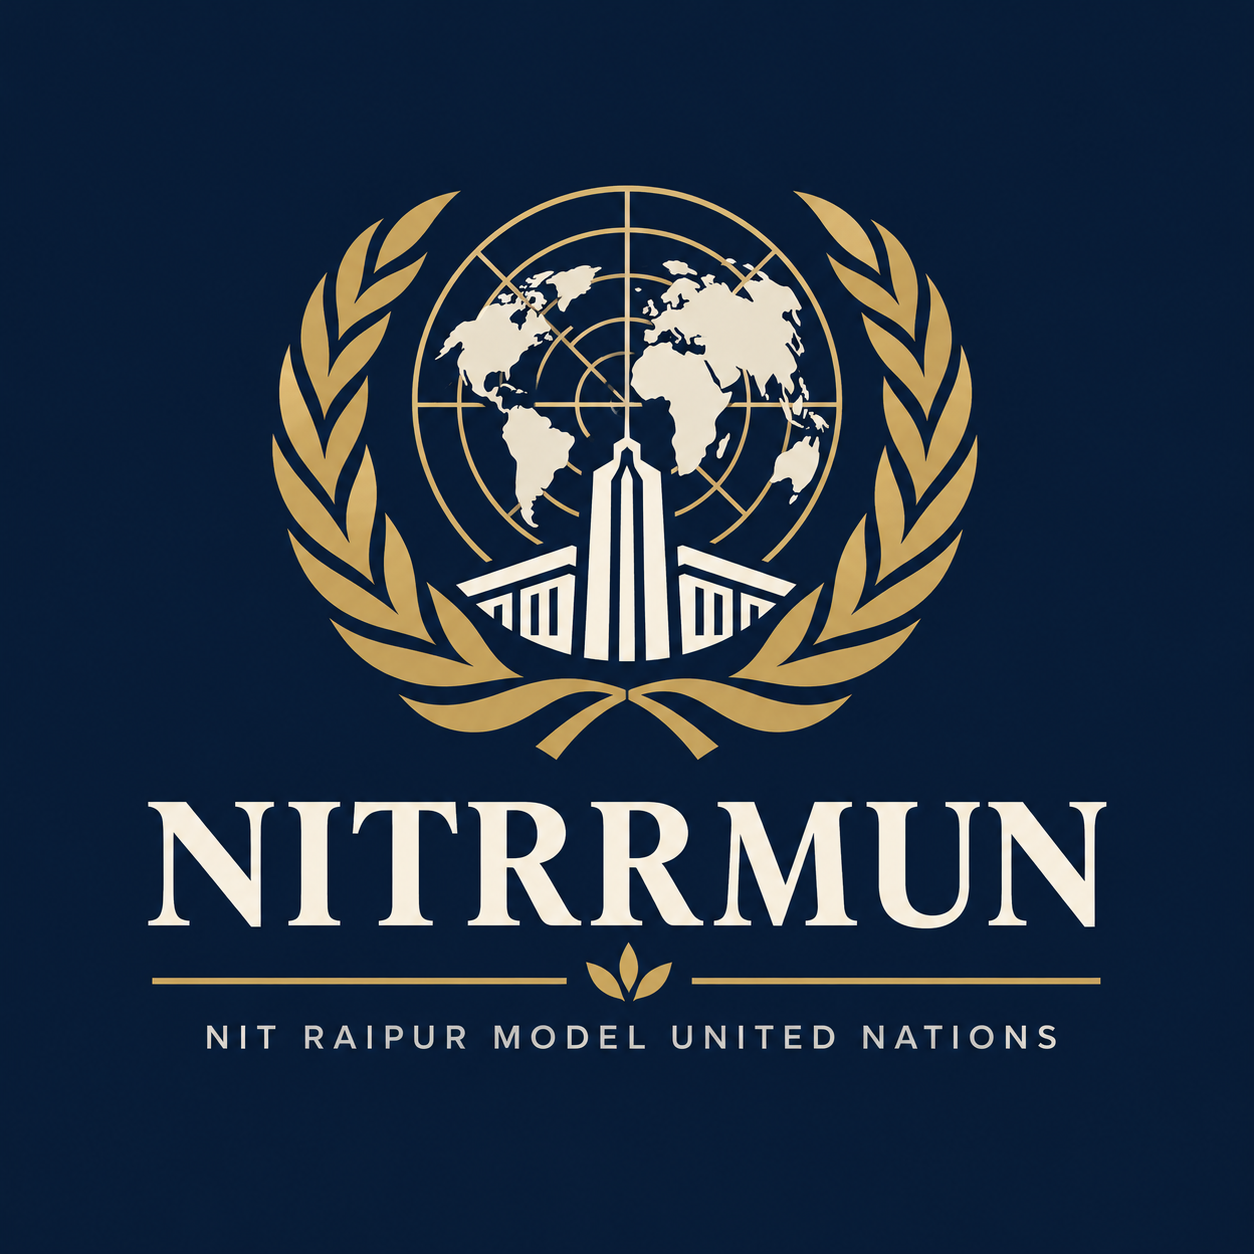
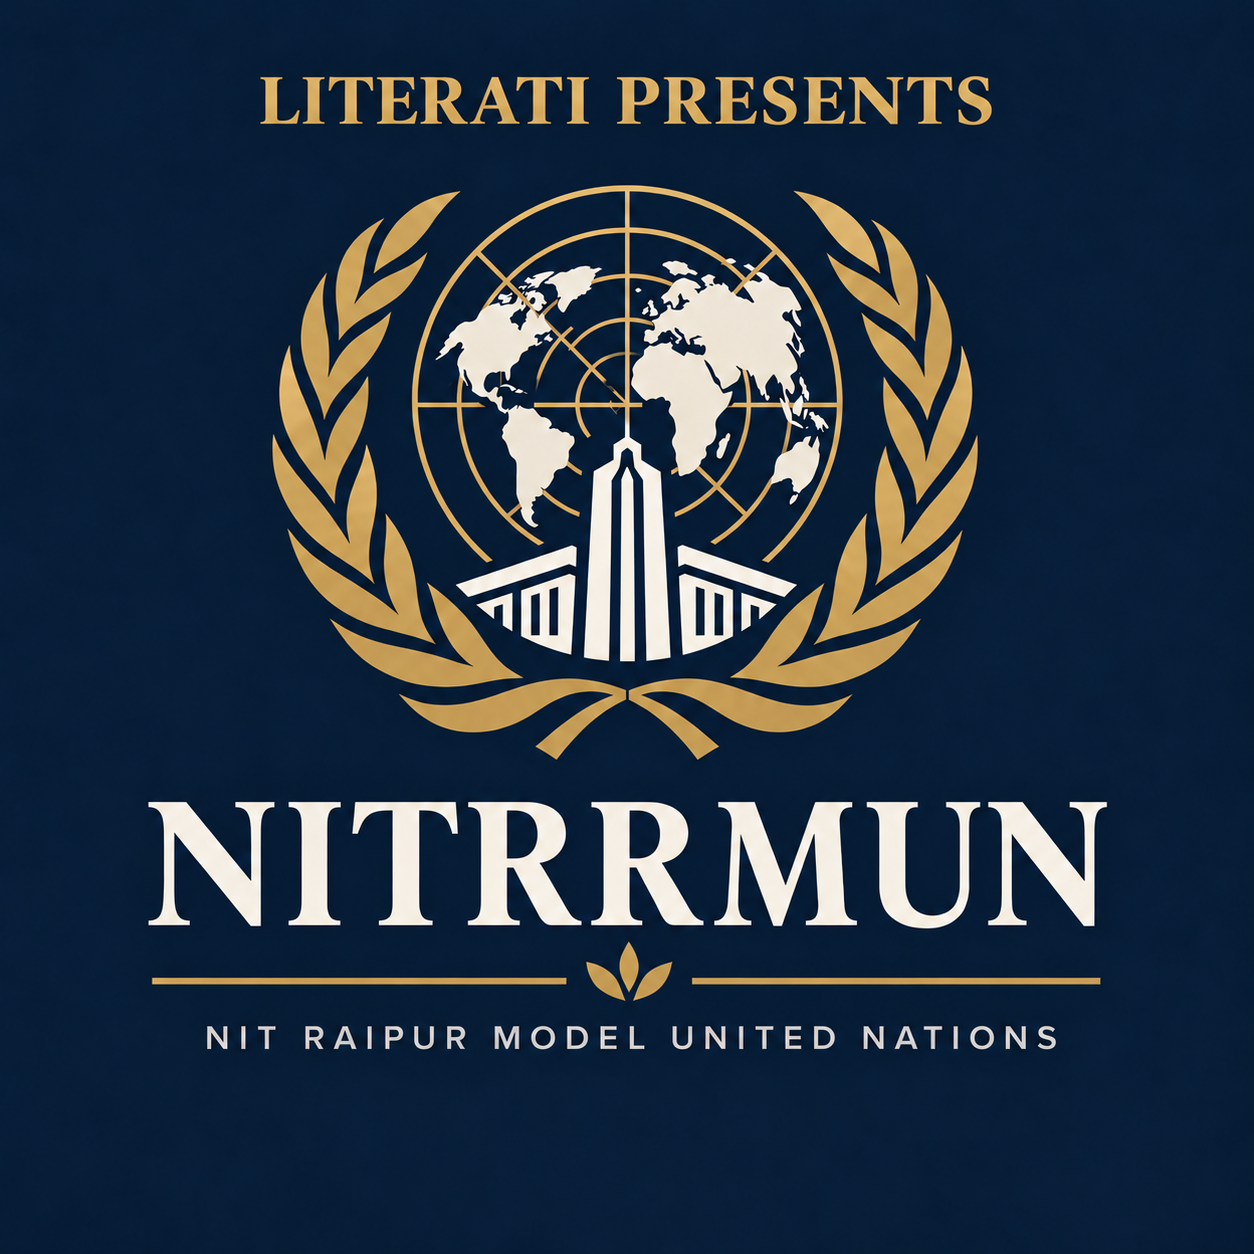
minor changes

diff --git a/frontend/src/Component/hero/Hero.tsx b/frontend/src/Component/hero/Hero.tsx
@@ -18,7 +18,7 @@ interface HeroProps {
 export const Hero: React.FC<HeroProps> = () => {
   const sectionRef = useRef<HTMLElement>(null);
   const titleRef = useRef<HTMLSpanElement>(null);
-  const imageRef = useRef<HTMLImageElement>(null);
+  const visualRef = useRef<HTMLElement>(null);
   const aboutButtonRef = useMagneticPointer<HTMLAnchorElement>(0.07);
   const spotlightFrameRef = useRef<number | null>(null);
   const spotlightPositionRef = useRef({ x: 0, y: 0 });
@@ -46,8 +46,8 @@ export const Hero: React.FC<HeroProps> = () => {
 
   useGSAP(() => {
     const title = titleRef.current;
-    const image = imageRef.current;
-    if (!title || !image || window.matchMedia('(prefers-reduced-motion: reduce)').matches) {
+    const visual = visualRef.current;
+    if (!title || !visual || window.matchMedia('(prefers-reduced-motion: reduce)').matches) {
       return;
     }
 
@@ -81,23 +81,30 @@ export const Hero: React.FC<HeroProps> = () => {
         '-=0.75',
       )
       .fromTo(
-        image,
+        visual,
         {
           autoAlpha: 0,
           scale: 1.035,
-          clipPath: 'polygon(0 0, 0 0, 0 0, 0 0, 0 100%, 0 8%)',
         },
         {
           autoAlpha: 1,
           scale: 1,
-          clipPath: 'polygon(5% 0, 100% 0, 100% 90%, 94% 100%, 0 100%, 0 8%)',
           duration: 1.1,
         },
         '-=0.75',
+      )
+      .fromTo(
+        '.hero-image',
+        { clipPath: 'polygon(0 0, 0 0, 0 0, 0 0, 0 100%, 0 8%)' },
+        {
+          clipPath: 'polygon(5% 0, 100% 0, 100% 90%, 94% 100%, 0 100%, 0 8%)',
+          duration: 1.1,
+        },
+        '<',
       );
 
     motionMedia.add('(min-width: 761px) and (hover: hover) and (pointer: fine)', () => {
-      gsap.to(image, {
+      gsap.to(visual, {
         yPercent: 5,
         ease: 'none',
         scrollTrigger: {
@@ -168,7 +175,11 @@ export const Hero: React.FC<HeroProps> = () => {
       <div className="hero-layout">
         <div className="hero-copy">
           <p className="hero-eyebrow" data-hero-eyebrow>
-            NITRRMUN 2026–27  NIT Raipur
+            <span>
+              <span className="hero-presenter">Literati presents</span>
+              <br />
+              NITRRMUN 2026–27  NIT Raipur
+            </span>
           </p>
 
           <h1 className="hero-title" id="hero-title" aria-label="Model United Nations">
@@ -193,9 +204,8 @@ export const Hero: React.FC<HeroProps> = () => {
           </div>
         </div>
 
-        <figure className="hero-visual">
+        <figure ref={visualRef} className="hero-visual">
           <img
-            ref={imageRef}
             className="hero-image"
             src={NITRRMUNdark}
             alt="Official NITRRMUN Global Emblem"

diff --git a/frontend/src/Component/about/About.tsx b/frontend/src/Component/about/About.tsx
@@ -28,7 +28,7 @@ export const About: React.FC = () => {
 
           <div className="about-copy">
             <p className="about-paragraph" data-about-paragraph>
-              <span className="about-highlight">NITRRMUN 2026–27</span> brings you an inspiring platform where diplomacy converges with youthful leadership at <span className="about-highlight">NIT Raipur</span>. Stepping into the theater of international affairs, NITRRMUN invites students to engage in rigorous discourse, analyze multifaceted geopolitical issues, and forge collaborative policies alongside visionary peers.
+              <span className="about-highlight">Literati</span> presents <span className="about-highlight">NITRRMUN 2026–27</span> which brings you an inspiring platform where diplomacy converges with youthful leadership at <span className="about-highlight">NIT Raipur</span>. Stepping into the theater of international affairs, NITRRMUN invites students to engage in rigorous discourse, analyze multifaceted geopolitical issues, and forge collaborative policies alongside visionary peers.
             </p>
 
             <p className="about-paragraph" data-about-paragraph>

diff --git a/frontend/src/Component/hero/Hero.css b/frontend/src/Component/hero/Hero.css
@@ -75,6 +75,10 @@
   text-transform: uppercase;
 }
 
+.hero-presenter {
+  font-size: calc(1em + 2px);
+}
+
 .hero-eyebrow-line {
   width: 38px;
   height: 1px;
@@ -197,6 +201,11 @@
   max-width: 480px;
   margin: 0 auto;
   padding: 0;
+  transition: translate 300ms cubic-bezier(0.16, 1, 0.3, 1);
+}
+
+.hero-visual:hover {
+  translate: 0 -4px;
 }
 
 .hero-visual::before {
@@ -223,13 +232,11 @@
     0 24px 60px -10px rgba(0, 0, 0, 0.8),
     0 0 35px rgba(217, 181, 109, 0.14),
     inset 0 0 24px rgba(217, 181, 109, 0.04);
-  transition: transform 300ms cubic-bezier(0.16, 1, 0.3, 1),
-              border-color 300ms ease,
+  transition: border-color 300ms ease,
               box-shadow 300ms ease;
 }
 
 .hero-visual:hover .hero-image {
-  transform: translateY(-4px) scale(1.015);
   border-color: rgba(217, 181, 109, 0.7);
   box-shadow:
     0 32px 75px -10px rgba(0, 0, 0, 0.9),
@@ -370,6 +377,7 @@
   .hero-primary-action svg,
   .hero-secondary-action svg,
   .hero-primary-action::before,
+  .hero-visual,
   .hero-image,
   .hero-visual::after {
     transition: none;
